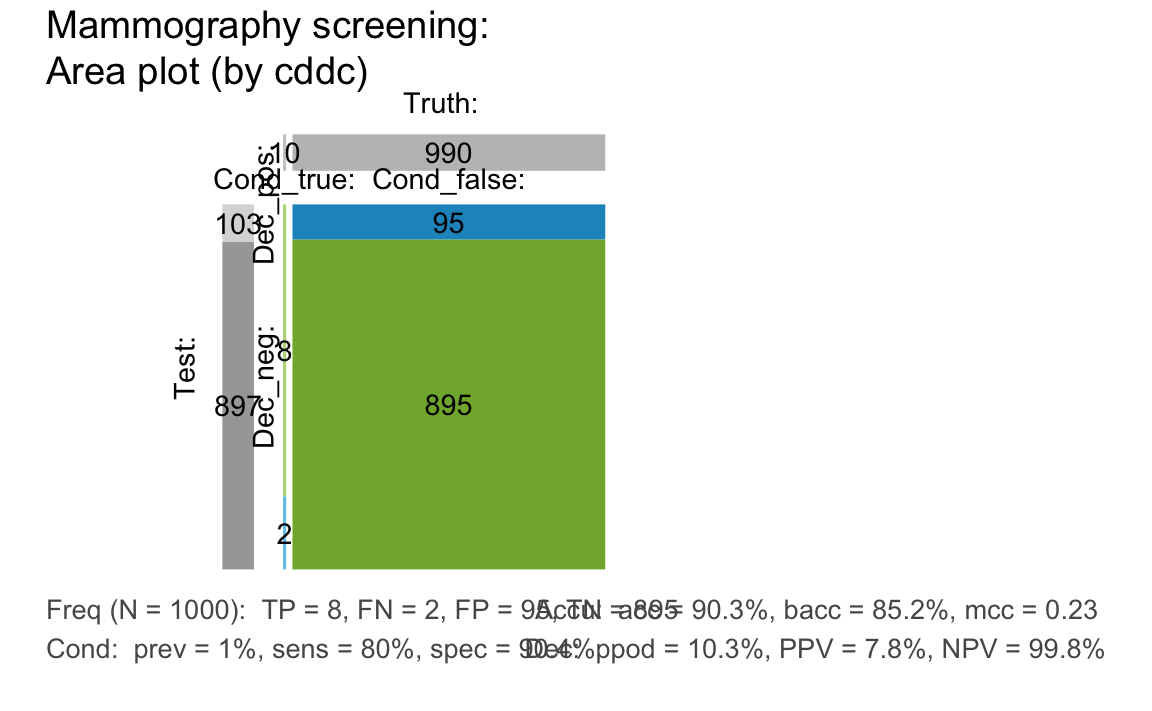
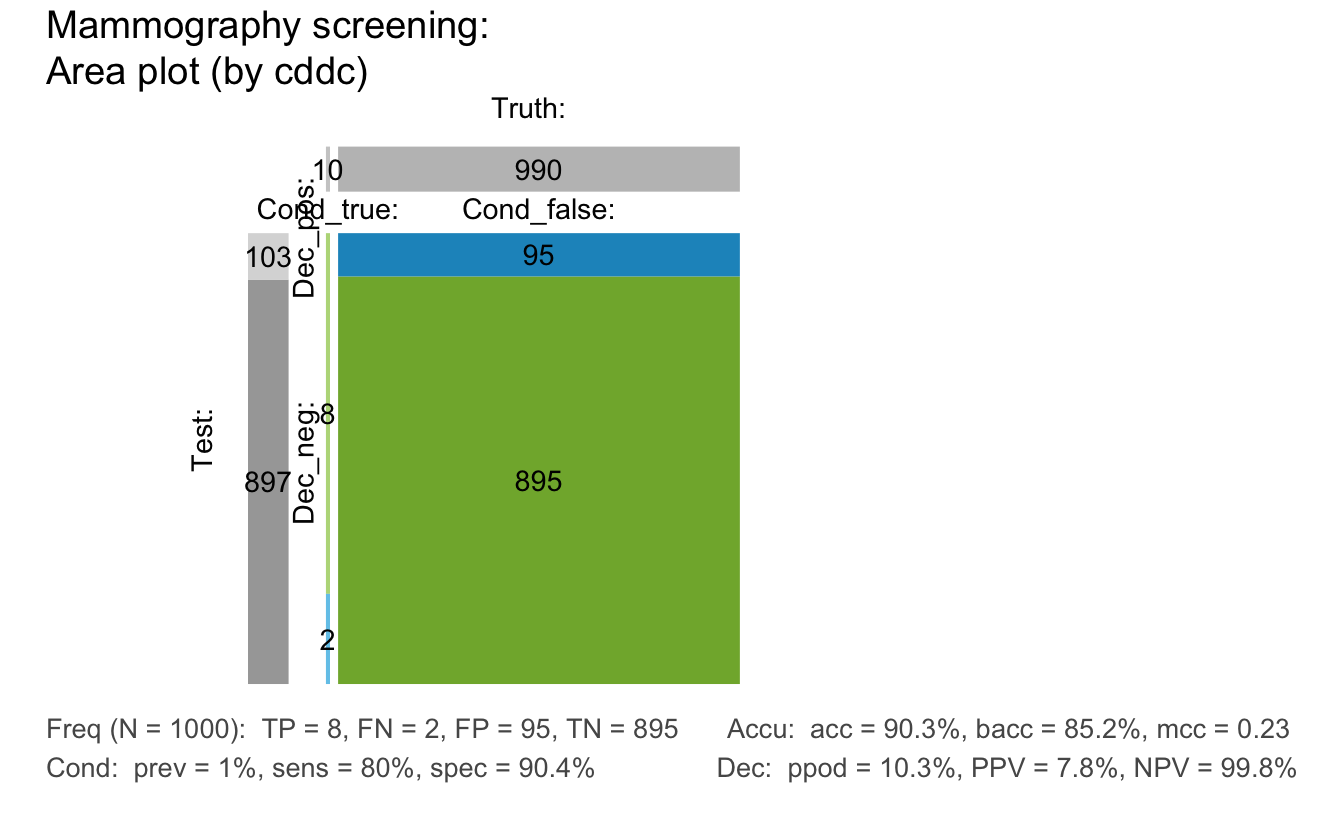
update online documentation

Changed region(s): [[0.0312, 0.1238, 0.9688, 0.9592], [0.0312, 0.0, 0.4375, 0.1238], [0.375, 0.557, 0.4375, 0.5879]]

diff --git a/docs/articles/A_user_guide.html b/docs/articles/A_user_guide.html
@@ -287,11 +287,7 @@ How many of these women do you expect to actually have breast cancer?</p>
 <div class="sourceCode"><pre class="sourceCode r"><code class="sourceCode r"><span class="kw"><a href="https://www.rdocumentation.org/packages/base/topics/library">library</a></span>(<span class="st">"riskyr"</span>)  <span class="co"># loads the package</span>
 <span class="co">#&gt; Welcome to riskyr!</span>
 <span class="co">#&gt; </span>
-<span class="co">#&gt;    _____</span>
-<span class="co">#&gt;   /\ r  \</span>
-<span class="co">#&gt;  /y \__i_\</span>
-<span class="co">#&gt;  \ r/s   /</span>
-<span class="co">#&gt;   \/___k/</span>
+<span class="co">#&gt; Ready to roll riskyr...</span>
 <span class="co">#&gt; </span>
 <span class="co">#&gt; riskyr.guide() opens user guides.</span>
 
@@ -381,7 +377,39 @@ f4 &lt;-<span class="st"> </span><span class="kw"><a href="../reference/comp_fre
 ## Check equality of outputs:
 <span class="kw"><a href="https://www.rdocumentation.org/packages/base/topics/all.equal">all.equal</a></span>(f3, f4)  <span class="co"># =&gt; shows slight differences in some frequencies:</span></code></pre></div>
 <p>As before, the function <code>comp_freq_prob</code> does not compute only one frequency, but a list of 11 frequencies. Their names and values can be inspected by printing <code>f1</code>:</p>
-<div class="sourceCode"><pre class="sourceCode r"><code class="sourceCode r">f1</code></pre></div>
+<div class="sourceCode"><pre class="sourceCode r"><code class="sourceCode r">f1
+<span class="co">#&gt; $N</span>
+<span class="co">#&gt; [1] 1000</span>
+<span class="co">#&gt; </span>
+<span class="co">#&gt; $cond_true</span>
+<span class="co">#&gt; [1] 10</span>
+<span class="co">#&gt; </span>
+<span class="co">#&gt; $cond_false</span>
+<span class="co">#&gt; [1] 990</span>
+<span class="co">#&gt; </span>
+<span class="co">#&gt; $dec_pos</span>
+<span class="co">#&gt; [1] 103</span>
+<span class="co">#&gt; </span>
+<span class="co">#&gt; $dec_neg</span>
+<span class="co">#&gt; [1] 897</span>
+<span class="co">#&gt; </span>
+<span class="co">#&gt; $dec_cor</span>
+<span class="co">#&gt; [1] 903</span>
+<span class="co">#&gt; </span>
+<span class="co">#&gt; $dec_err</span>
+<span class="co">#&gt; [1] 97</span>
+<span class="co">#&gt; </span>
+<span class="co">#&gt; $hi</span>
+<span class="co">#&gt; [1] 8</span>
+<span class="co">#&gt; </span>
+<span class="co">#&gt; $mi</span>
+<span class="co">#&gt; [1] 2</span>
+<span class="co">#&gt; </span>
+<span class="co">#&gt; $fa</span>
+<span class="co">#&gt; [1] 95</span>
+<span class="co">#&gt; </span>
+<span class="co">#&gt; $cr</span>
+<span class="co">#&gt; [1] 895</span></code></pre></div>
 <p>In this list, the sample of <code>N</code> = <span class="math inline">\(1000\)</span> women is split into 3 different subgroups. For instance, the <span class="math inline">\(10\)</span> women with cancer appear as <code>cond_true</code> cases, whereas the <code>990</code> without cancer are listed as <code>cond_false</code> cases. The <span class="math inline">\(8\)</span> women with cancer and a positive test result appear as <em>hits</em> <code>hi</code> and the 95 women who receive a positive test result without having cancer are listed as <em>false alarms</em> <code>fa</code>. (See the vignette on <a href="B_data_formats.html">data formats</a> for details on all frequencies.)</p>
 </div>
 <div id="computing-probabilities-from-frequencies" class="section level4">
@@ -533,7 +561,12 @@ A tree diagram that applies the provided probabilities and frequencies to a popu
 <p>An alternative way to split a group of individuals into subgroups depicts the population as a square and dissects it into various rectangles that represent parts of the population. In the following area plot (aka. mosaic plot), the relative proportions of rectangle sizes represent the relative frequencies of the corresponding subgroups:</p>
 <div class="sourceCode"><pre class="sourceCode r"><code class="sourceCode r"><span class="kw"><a href="../reference/plot_area.html">plot_area</a></span>(<span class="dt">prev =</span> .<span class="dv">01</span>, <span class="dt">sens =</span> .<span class="dv">80</span>, <span class="dt">spec =</span> <span class="ot">NA</span>, <span class="dt">fart =</span> .<span class="dv">096</span>, <span class="dt">N =</span> <span class="dv">1000</span>,
           <span class="dt">title_lbl =</span> <span class="st">"Mammography screening"</span>)</code></pre></div>
-<p>(Note that the plot is not shown here, but please go ahead and try creating it for yourself.)</p>
+<div class="figure" style="text-align: center">
+<img src="A_user_guide_files/figure-html/plot_mosaic_cd-1.png" alt="An area plot in which area sizes represent the probabilities/relative frequencies of subgroups." width="672"><p class="caption">
+An area plot in which area sizes represent the probabilities/relative frequencies of subgroups.
+</p>
+</div>
+<!-- (The plot is not shown here, but please go ahead and create it for yourself.) -->
 <p>The vertical split dissects the population into two subgroups that correspond to the frequency of <code>cond_true</code> and <code>cond_false</code> cases in the tree diagram above. The <code>prev</code> value of 1% yields a slim vertical rectangle on the left. (For details and additional options of the <code>plot_area</code> function, see the documentation of <code><a href="../reference/plot_area.html">?plot_area</a></code>.)</p>
 </div>
 <div id="bar-plot" class="section level4">
@@ -542,6 +575,7 @@ A tree diagram that applies the provided probabilities and frequencies to a popu
 <p>The tree diagrams from above can also be depicted as a vertical bar plot:</p>
 <div class="sourceCode"><pre class="sourceCode r"><code class="sourceCode r"><span class="kw"><a href="../reference/plot_bar.html">plot_bar</a></span>(<span class="dt">prev =</span> .<span class="dv">01</span>, <span class="dt">sens =</span> .<span class="dv">80</span>, <span class="dt">spec =</span> <span class="ot">NA</span>, <span class="dt">fart =</span> .<span class="dv">096</span>, <span class="dt">N =</span> <span class="dv">1000</span>, 
          <span class="dt">by =</span> <span class="st">"all"</span>, <span class="dt">dir =</span> <span class="dv">2</span>, <span class="dt">title_lbl =</span> <span class="st">"Mammography screening"</span>)</code></pre></div>
+<p>(The plot is not shown here, but please go ahead and create it for yourself.)</p>
 <p>However, due to a number of categories with a very low number of members, many bars are barely visible (which is why they are not shown here).</p>
 </div>
 <div id="prism-plot" class="section level4">
@@ -560,7 +594,7 @@ A prism plot that integrates 2 tree diagrams and represents relative frequency b
 <div id="alternative-perspectives" class="section level4">
 <h4 class="hasAnchor">
 <a href="#alternative-perspectives" class="anchor"></a>Alternative perspectives</h4>
-<p>The variety of different graphical options may be overwhelming at first. In the following, we illustrate some additional parameters and points, and trust that you can evaluate and explore the corresponding commands yourself.</p>
+<p>The variety of different graphical options provided by <code>riskyr</code> can be overwhelming at first – but fortunately the default options work reasonably well in most cases. In the following, we illustrate some additional parameters and points, and trust that you can evaluate and explore the corresponding commands yourself.</p>
 <p>Both the tree/prism diagrams and the mosaic plots shown above adopted a particular perspective by splitting the population into 2 subgroups by condition (via the default option <code>by = "cd"</code>). Rather than emphasizing the difference between <code>cond_true</code> and <code>cond_false</code> cases, an alternative perspective could ask: How many people are detected as positive vs. negative by the test? By using the option <code>by = "dc"</code>, the tree diagram splits the population by decisions into <code>dec_pos</code> and <code>dec_neg</code> cases:</p>
 <div class="sourceCode"><pre class="sourceCode r"><code class="sourceCode r"><span class="kw"><a href="../reference/plot_prism.html">plot_prism</a></span>(<span class="dt">prev =</span> .<span class="dv">01</span>, <span class="dt">sens =</span> .<span class="dv">80</span>, <span class="dt">spec =</span> <span class="ot">NA</span>, <span class="dt">fart =</span> .<span class="dv">096</span>, <span class="dt">N =</span> <span class="dv">1000</span>, 
            <span class="dt">by =</span> <span class="st">"dc"</span>, <span class="dt">title_lbl =</span> <span class="st">"Mammography screening"</span>, <span class="dt">col_pal =</span> pal_mod)</code></pre></div>

diff --git a/docs/reference/plot_prism.html b/docs/reference/plot_prism.html
@@ -397,9 +397,9 @@ and providing many additional options.</p>
 <span class='fu'>plot_prism</span>(<span class='kw'>by</span> <span class='kw'>=</span> <span class='st'>"cd"</span>, <span class='kw'>f_lbl</span> <span class='kw'>=</span> <span class='st'>"def"</span>, <span class='kw'>col_pal</span> <span class='kw'>=</span> <span class='no'>pal_mod</span>) <span class='co'># by condition (freq boxes: hi mi fa cr)</span></div><div class='img'><img src='plot_prism-10.png' alt='' width='691' height='538' /></div><div class='input'><span class='fu'>plot_prism</span>(<span class='kw'>by</span> <span class='kw'>=</span> <span class='st'>"dc"</span>, <span class='kw'>f_lbl</span> <span class='kw'>=</span> <span class='st'>"def"</span>, <span class='kw'>col_pal</span> <span class='kw'>=</span> <span class='no'>pal_mod</span>) <span class='co'># by decision  (freq boxes: hi fa mi cr)</span></div><div class='img'><img src='plot_prism-11.png' alt='' width='691' height='538' /></div><div class='input'><span class='fu'>plot_prism</span>(<span class='kw'>by</span> <span class='kw'>=</span> <span class='st'>"ac"</span>, <span class='kw'>f_lbl</span> <span class='kw'>=</span> <span class='st'>"def"</span>, <span class='kw'>col_pal</span> <span class='kw'>=</span> <span class='no'>pal_mod</span>) <span class='co'># by decision  (freq boxes: hi cr mi fa)</span></div><div class='img'><img src='plot_prism-12.png' alt='' width='691' height='538' /></div><div class='input'>
 <span class='co'># (B) prism/double tree (nchar(by) == 4):</span>
 <span class='co'>#     6 (3 x 2) versions (+ 3 redundant ones):</span>
-<span class='fu'>plot_prism</span>(<span class='kw'>by</span> <span class='kw'>=</span> <span class='st'>"cddc"</span>)  <span class='co'># v01 (default)</span></div><div class='img'><img src='plot_prism-13.png' alt='' width='691' height='538' /></div><div class='input'><span class='fu'>plot_prism</span>(<span class='kw'>by</span> <span class='kw'>=</span> <span class='st'>"cdac"</span>)  <span class='co'># v02</span></div><div class='img'><img src='plot_prism-14.png' alt='' width='691' height='538' /></div><div class='input'><span class='fu'>plot_prism</span>(<span class='kw'>by</span> <span class='kw'>=</span> <span class='st'>"cdcd"</span>)  <span class='co'># (+) Warning</span></div><div class='output co'>#&gt; <span class='warning'>Warning: Specified 2 identical perspectives.</span></div><div class='img'><img src='plot_prism-15.png' alt='' width='691' height='538' /></div><div class='input'>
-<span class='fu'>plot_prism</span>(<span class='kw'>by</span> <span class='kw'>=</span> <span class='st'>"dccd"</span>)  <span class='co'># v03</span></div><div class='img'><img src='plot_prism-16.png' alt='' width='691' height='538' /></div><div class='input'><span class='fu'>plot_prism</span>(<span class='kw'>by</span> <span class='kw'>=</span> <span class='st'>"dcac"</span>)  <span class='co'># v04</span></div><div class='img'><img src='plot_prism-17.png' alt='' width='691' height='538' /></div><div class='input'><span class='fu'>plot_prism</span>(<span class='kw'>by</span> <span class='kw'>=</span> <span class='st'>"dcdc"</span>)  <span class='co'># (+) Warning</span></div><div class='output co'>#&gt; <span class='warning'>Warning: Specified 2 identical perspectives.</span></div><div class='img'><img src='plot_prism-18.png' alt='' width='691' height='538' /></div><div class='input'>
-<span class='fu'>plot_prism</span>(<span class='kw'>by</span> <span class='kw'>=</span> <span class='st'>"accd"</span>)  <span class='co'># v05</span></div><div class='img'><img src='plot_prism-19.png' alt='' width='691' height='538' /></div><div class='input'><span class='fu'>plot_prism</span>(<span class='kw'>by</span> <span class='kw'>=</span> <span class='st'>"acdc"</span>)  <span class='co'># v06</span></div><div class='img'><img src='plot_prism-20.png' alt='' width='691' height='538' /></div><div class='input'><span class='fu'>plot_prism</span>(<span class='kw'>by</span> <span class='kw'>=</span> <span class='st'>"acac"</span>)  <span class='co'># (+) Warning</span></div><div class='output co'>#&gt; <span class='warning'>Warning: Specified 2 identical perspectives.</span></div><div class='img'><img src='plot_prism-21.png' alt='' width='691' height='538' /></div><div class='input'>
+<span class='fu'>plot_prism</span>(<span class='kw'>by</span> <span class='kw'>=</span> <span class='st'>"cddc"</span>)  <span class='co'># v01 (default)</span></div><div class='img'><img src='plot_prism-13.png' alt='' width='691' height='538' /></div><div class='input'><span class='fu'>plot_prism</span>(<span class='kw'>by</span> <span class='kw'>=</span> <span class='st'>"cdac"</span>)  <span class='co'># v02</span></div><div class='img'><img src='plot_prism-14.png' alt='' width='691' height='538' /></div><div class='input'><span class='fu'>plot_prism</span>(<span class='kw'>by</span> <span class='kw'>=</span> <span class='st'>"cdcd"</span>)  <span class='co'># (+) Message</span></div><div class='output co'>#&gt; <span class='message'>Specified 2 identical perspectives.</span></div><div class='img'><img src='plot_prism-15.png' alt='' width='691' height='538' /></div><div class='input'>
+<span class='fu'>plot_prism</span>(<span class='kw'>by</span> <span class='kw'>=</span> <span class='st'>"dccd"</span>)  <span class='co'># v03</span></div><div class='img'><img src='plot_prism-16.png' alt='' width='691' height='538' /></div><div class='input'><span class='fu'>plot_prism</span>(<span class='kw'>by</span> <span class='kw'>=</span> <span class='st'>"dcac"</span>)  <span class='co'># v04</span></div><div class='img'><img src='plot_prism-17.png' alt='' width='691' height='538' /></div><div class='input'><span class='fu'>plot_prism</span>(<span class='kw'>by</span> <span class='kw'>=</span> <span class='st'>"dcdc"</span>)  <span class='co'># (+) Message</span></div><div class='output co'>#&gt; <span class='message'>Specified 2 identical perspectives.</span></div><div class='img'><img src='plot_prism-18.png' alt='' width='691' height='538' /></div><div class='input'>
+<span class='fu'>plot_prism</span>(<span class='kw'>by</span> <span class='kw'>=</span> <span class='st'>"accd"</span>)  <span class='co'># v05</span></div><div class='img'><img src='plot_prism-19.png' alt='' width='691' height='538' /></div><div class='input'><span class='fu'>plot_prism</span>(<span class='kw'>by</span> <span class='kw'>=</span> <span class='st'>"acdc"</span>)  <span class='co'># v06</span></div><div class='img'><img src='plot_prism-20.png' alt='' width='691' height='538' /></div><div class='input'><span class='fu'>plot_prism</span>(<span class='kw'>by</span> <span class='kw'>=</span> <span class='st'>"acac"</span>)  <span class='co'># (+) Message</span></div><div class='output co'>#&gt; <span class='message'>Specified 2 identical perspectives.</span></div><div class='img'><img src='plot_prism-21.png' alt='' width='691' height='538' /></div><div class='input'>
 <span class='co'>## Other options:</span>
 
 <span class='co'># area:</span>

diff --git a/docs/articles/C_confusion_matrix.html b/docs/articles/C_confusion_matrix.html
@@ -306,7 +306,7 @@
 <h4 class="hasAnchor">
 <a href="#example" class="anchor"></a>Example</h4>
 <p>To view a 2x2 confusion table in <code>riskyr</code>, use the <code>plot_tab</code> function or plot an existing scenario as <code>type = "tab"</code>:</p>
-<div class="sourceCode"><pre class="sourceCode r"><code class="sourceCode r">## Plot table from basic input parameters: ----- 
+<div class="sourceCode"><pre class="sourceCode r"><code class="sourceCode r"><span class="co"># Plot table from basic input parameters: ----- </span>
 <span class="kw"><a href="../reference/plot_tab.html">plot_tab</a></span>(<span class="dt">prev =</span> .<span class="dv">05</span>, <span class="dt">sens =</span> .<span class="dv">75</span>, <span class="dt">spec =</span> .<span class="dv">66</span>, <span class="dt">N =</span> <span class="dv">1000</span>,
          <span class="dt">p_lbl =</span> <span class="st">"def"</span>, <span class="dt">title_lbl =</span> <span class="st">"Scenario 1"</span>)
 
@@ -318,6 +318,7 @@
 Example of a 2x2 confusion table in <code>riskyr</code>.
 </p>
 </div>
+<!-- (The plots are not shown here, but please go ahead and generate them for yourself.) -->
 <!-- 
 
 #### ToDo
@@ -380,6 +381,7 @@ Example of a 2x2 confusion table in <code>riskyr</code>.
 Arranging a 2x2 confusion table by condition and by accuracy.
 </p>
 </div>
+<!-- (Note that the plot is not shown here, but please go ahead and generate it for yourself.) -->
 </div>
 <div id="avoiding-common-sources-of-confusion" class="section level4">
 <h4 class="hasAnchor">
@@ -394,10 +396,10 @@ Arranging a 2x2 confusion table by condition and by accuracy.
 </ul>
 </li>
 </ol>
-<p>Thus, the terms “true” and “false” are sometimes ambiguous by switching their referents. When used to denote the four essential frequencies (e.g., describing <code>mi</code> as “false negatives” and <code>cr</code> as “true negatives”) the terms refer to the correspondence of a decision to the condition, rather than to their condition. To avoid this source of confusion, we prefer the terms <code>mi</code> and <code>cr</code>, rather than “false negatives” and “true negatives”.</p>
+<p>Thus, the terms “true” and “false” are sometimes ambiguous by switching their referents. When used to denote the four essential frequencies (e.g., describing <code>mi</code> as “false negatives” and <code>cr</code> as “true negatives”) the terms refer to the correspondence of a decision to the condition, rather than to their condition. To avoid this source of confusion, we prefer the terms <code>mi</code> and <code>cr</code> over “false negatives” (FN) and “true negatives” (TN), respectively, but offer both options as pre-defined lists of text labels (see <code>txt_org</code> and <code>txt_TF</code>).</p>
 <ol start="2" style="list-style-type: decimal">
 <li>Beware of alternative terms for <code>dec_cor</code> and <code>dec_err</code>:<br>
-Similarly, it may be tempting to refer to instances of <code>dec_cor</code> and <code>dec_err</code> as “true decisions” and “false decisions”. However, this would also invite conceptual confusion, as “true decisions” would include <code>cond_false</code> cases (<code>cr</code>) and “false decisions” would include <code>cond_true</code> cases (<code>mi</code>). Again, we prefer the less ambiguous terms “correct decisions” vs. “erroneous decisions”.</li>
+Similarly, it may be tempting to refer to instances of <code>dec_cor</code> and <code>dec_err</code> as “true decisions” and “false decisions”. However, this would also invite conceptual confusion, as “true decisions” would include <code>cond_false</code> cases (<code>cr</code> or TN cases) and “false decisions” would include <code>cond_true</code> cases (<code>mi</code> or FN cases). Again, we prefer the less ambiguous terms “correct decisions” vs. “erroneous decisions”.</li>
 </ol>
 </div>
 </div>
@@ -405,8 +407,8 @@ Similarly, it may be tempting to refer to instances of <code>dec_cor</code> and 
 <div id="accuracy-metrics" class="section level2">
 <h2 class="hasAnchor">
 <a href="#accuracy-metrics" class="anchor"></a>Accuracy metrics</h2>
-<p>The perspective of accuracy raises an important question: How good is a given decision (e.g., a clinical judgment or some diagnostic test) in capturing the true state of the condition? Different accuracy metrics provide different answers to this question, but share a common goal — measuring decision performance by capturing the correspondence of decisions to conditions in some quantitative fashion.<a href="#fn2" class="footnoteRef" id="fnref2"><sup>2</sup></a></p>
-<p>While all accuracy metrics quantify the relationship between correct and erroneous decisions, different metrics emphasize different aspects or have different purposes. We distinguish between specific and general metrics.</p>
+<p>The perspective of accuracy raises an important question: How good is some decision process (e.g., a clinical judgment or some diagnostic test) in capturing the true state of the condition? Different accuracy metrics provide different answers to this question, but share a common goal — measuring decision performance by capturing the correspondence of decisions to conditions in some quantitative fashion.<a href="#fn2" class="footnoteRef" id="fnref2"><sup>2</sup></a></p>
+<p>While all accuracy metrics quantify the relationship between correct and erroneous decisions, different metrics emphasize different aspects or serve different purposes. We distinguish between specific and general metrics.</p>
 <div id="a--specific-metrics-conditional-probabilities" class="section level3">
 <h3 class="hasAnchor">
 <a href="#a--specific-metrics-conditional-probabilities" class="anchor"></a>A. Specific metrics: Conditional probabilities</h3>
@@ -503,7 +505,7 @@ Similarly, it may be tempting to refer to instances of <code>dec_cor</code> and 
 <h2 class="hasAnchor">
 <a href="#references" class="anchor"></a>References</h2>
 <ul>
-<li>Phillips, N. D., Neth, H., Woike, J. K., &amp; Gaissmaier, W. (2017). FFTrees: A toolbox to create, visualize, and evaluate fast-and-frugal decision trees. <em>Judgment and Decision Making</em>, <em>12</em>, 344–368. [ <a href="http://journal.sjdm.org/17/17217/jdm17217.pdf">pdf</a> | <a href="http://journal.sjdm.org/17/17217/jdm17217.html">html</a> | <a href="https://CRAN.R-project.org/package=FFTrees">R package</a> ]</li>
+<li>Phillips, N. D., Neth, H., Woike, J. K., &amp; Gaissmaier, W. (2017). FFTrees: A toolbox to create, visualize, and evaluate fast-and-frugal decision trees. <em>Judgment and Decision Making</em>, <em>12</em>, 344–368. [Available online: <a href="http://journal.sjdm.org/17/17217/jdm17217.pdf">pdf</a> | <a href="http://journal.sjdm.org/17/17217/jdm17217.html">html</a> | <a href="https://CRAN.R-project.org/package=FFTrees">R package</a> ]</li>
 </ul>
 <p>Links to related Wikipedia articles:</p>
 <ul>

diff --git a/docs/reference/is_prob.html b/docs/reference/is_prob.html
@@ -194,10 +194,16 @@ otherwise <code>FALSE</code>.</p>
     <pre class="examples"><div class='input'><span class='co'># ways to succeed:</span>
 <span class='fu'>is_prob</span>(<span class='fl'>1</span>/<span class='fl'>2</span>)                  <span class='co'># =&gt; TRUE</span></div><div class='output co'>#&gt; [1] TRUE</div><div class='input'><span class='no'>p.seq</span> <span class='kw'>&lt;-</span> <span class='fu'><a href='https://www.rdocumentation.org/packages/base/topics/seq'>seq</a></span>(<span class='fl'>0</span>, <span class='fl'>1</span>, <span class='kw'>by</span> <span class='kw'>=</span> <span class='fl'>.1</span>)   <span class='co'># Vector of probabilities</span>
 <span class='fu'>is_prob</span>(<span class='no'>p.seq</span>)                <span class='co'># =&gt; TRUE (for vector)</span></div><div class='output co'>#&gt; [1] TRUE</div><div class='input'>
-<span class='co'># watch out for:</span>
-<span class='fu'>is_prob</span>(<span class='fl'>NA</span>)                   <span class='co'># =&gt; FALSE + NO warning!</span></div><div class='output co'>#&gt; [1] FALSE</div><div class='input'><span class='fu'>is_prob</span>(<span class='fl'>0</span>/<span class='fl'>0</span>)                  <span class='co'># =&gt; FALSE + NO warning (NA + NaN values)</span></div><div class='output co'>#&gt; [1] FALSE</div><div class='input'><span class='fu'>is_prob</span>(<span class='fl'>0</span>/<span class='fl'>0</span>, <span class='kw'>NA_warn</span> <span class='kw'>=</span> <span class='fl'>TRUE</span>)  <span class='co'># =&gt; FALSE + warning (NA values)</span></div><div class='output co'>#&gt; <span class='warning'>Warning: NaN contains NA values. </span></div><div class='output co'>#&gt; [1] FALSE</div><div class='input'>
-<span class='co'># ways to fail:</span>
-<span class='fu'>is_prob</span>(<span class='fl'>8</span>, <span class='kw'>NA_warn</span> <span class='kw'>=</span> <span class='fl'>TRUE</span>)         <span class='co'># =&gt; FALSE + warning (outside range element)</span></div><div class='output co'>#&gt; <span class='warning'>Warning: 8 contains values beyond the range from 0 to 1. </span></div><div class='output co'>#&gt; [1] FALSE</div><div class='input'><span class='fu'>is_prob</span>(<span class='fu'><a href='https://www.rdocumentation.org/packages/base/topics/c'>c</a></span>(<span class='fl'>.5</span>, <span class='fl'>8</span>), <span class='kw'>NA_warn</span> <span class='kw'>=</span> <span class='fl'>TRUE</span>)  <span class='co'># =&gt; FALSE + warning (outside range vector element)</span></div><div class='output co'>#&gt; <span class='warning'>Warning: 0.5 contains values beyond the range from 0 to 1. 8 contains values beyond the range from 0 to 1. </span></div><div class='output co'>#&gt; [1] FALSE</div><div class='input'><span class='fu'>is_prob</span>(<span class='st'>"Laplace"</span>, <span class='kw'>NA_warn</span> <span class='kw'>=</span> <span class='fl'>TRUE</span>) <span class='co'># =&gt; FALSE + warning (non-numeric values)</span></div><div class='output co'>#&gt; <span class='warning'>Warning: Laplace contains non-numeric values. </span></div><div class='output co'>#&gt; [1] FALSE</div><div class='input'>
+## watch out for:
+# is_prob(NA)                   # => FALSE + NO warning!
+# is_prob(0/0)                  # => FALSE + NO warning (NA + NaN values)
+# is_prob(0/0, NA_warn = TRUE)  # => FALSE + warning (NA values)
+
+## ways to fail:
+# is_prob(8, NA_warn = TRUE)         # => FALSE + warning (outside range element)
+# is_prob(c(.5, 8), NA_warn = TRUE)  # => FALSE + warning (outside range vector element)
+# is_prob("Laplace", NA_warn = TRUE) # => FALSE + warning (non-numeric values)
+
 </div></pre>
   </div>
   <div class="col-md-3 hidden-xs hidden-sm" id="sidebar">

diff --git a/docs/reference/is_perc.html b/docs/reference/is_perc.html
@@ -186,10 +186,17 @@ otherwise <code>FALSE</code>.</p>
 
     <h2 class="hasAnchor" id="examples"><a class="anchor" href="#examples"></a>Examples</h2>
     <pre class="examples"><div class='input'><span class='co'># ways to succeed:</span>
-<span class='fu'>is_perc</span>(<span class='fl'>2</span>)           <span class='co'># =&gt; TRUE, but does NOT return the percentage 2.</span></div><div class='output co'>#&gt; [1] TRUE</div><div class='input'><span class='fu'>is_perc</span>(<span class='fl'>1</span>/<span class='fl'>2</span>)         <span class='co'># =&gt; TRUE, but does NOT return the percentage 0.5.</span></div><div class='output co'>#&gt; [1] TRUE</div><div class='input'><span class='no'>pc.sq</span> <span class='kw'>&lt;-</span> <span class='fu'><a href='https://www.rdocumentation.org/packages/base/topics/seq'>seq</a></span>(<span class='fl'>0</span>, <span class='fl'>100</span>, <span class='kw'>by</span> <span class='kw'>=</span> <span class='fl'>10</span>)
-<span class='fu'>is_perc</span>(<span class='no'>pc.sq</span>)       <span class='co'># =&gt; TRUE (for vector)</span></div><div class='output co'>#&gt; [1] TRUE</div><div class='input'>
-<span class='co'># ways to fail:</span>
-<span class='fu'>is_perc</span>(<span class='fl'>NA</span>)          <span class='co'># =&gt; FALSE + warning (NA values)</span></div><div class='output co'>#&gt; <span class='warning'>Warning: NA contains NA values. </span></div><div class='output co'>#&gt; [1] FALSE</div><div class='input'><span class='fu'>is_perc</span>(<span class='fl'>NaN</span>)         <span class='co'># =&gt; FALSE + warning (NaN values)</span></div><div class='output co'>#&gt; <span class='warning'>Warning: NaN contains NA values. </span></div><div class='output co'>#&gt; [1] FALSE</div><div class='input'><span class='fu'>is_perc</span>(<span class='st'>"Bernoulli"</span>) <span class='co'># =&gt; FALSE + warning (non-numeric values)</span></div><div class='output co'>#&gt; <span class='warning'>Warning: Bernoulli contains non-numeric values. </span></div><div class='output co'>#&gt; [1] FALSE</div><div class='input'><span class='fu'>is_perc</span>(<span class='fl'>101</span>)         <span class='co'># =&gt; FALSE + warning (beyond range)</span></div><div class='output co'>#&gt; <span class='warning'>Warning: 101 contains values beyond the range from 0 to 100. </span></div><div class='output co'>#&gt; [1] FALSE</div><div class='input'>
+<span class='fu'>is_perc</span>(<span class='fl'>2</span>)    <span class='co'># =&gt; TRUE, but does NOT return the percentage 2.</span></div><div class='output co'>#&gt; [1] TRUE</div><div class='input'><span class='fu'>is_perc</span>(<span class='fl'>1</span>/<span class='fl'>2</span>)  <span class='co'># =&gt; TRUE, but does NOT return the percentage 0.5.</span></div><div class='output co'>#&gt; [1] TRUE</div><div class='input'>
+## note:
+# pc_sq <- seq(0, 100, by = 10)
+# is_perc(pc_sq)       # => TRUE (for vector)
+
+## ways to fail:
+# is_perc(NA)          # => FALSE + warning (NA values)
+# is_perc(NaN)         # => FALSE + warning (NaN values)
+# is_perc("Bernoulli") # => FALSE + warning (non-numeric values)
+# is_perc(101)         # => FALSE + warning (beyond range)
+
 </div></pre>
   </div>
   <div class="col-md-3 hidden-xs hidden-sm" id="sidebar">

diff --git a/docs/reference/is_freq.html b/docs/reference/is_freq.html
@@ -185,11 +185,15 @@ otherwise <code>FALSE</code>.</p>
 
     <h2 class="hasAnchor" id="examples"><a class="anchor" href="#examples"></a>Examples</h2>
     <pre class="examples"><div class='input'><span class='co'># ways to succeed:</span>
-<span class='fu'>is_freq</span>(<span class='fl'>2</span>)             <span class='co'># =&gt; TRUE, but does NOT return the frequency 2.</span></div><div class='output co'>#&gt; [1] TRUE</div><div class='input'><span class='fu'>is_freq</span>(<span class='fl'>1</span>:<span class='fl'>3</span>)           <span class='co'># =&gt; TRUE (for vector)</span></div><div class='output co'>#&gt; [1] TRUE</div><div class='input'>
-<span class='co'># ways to fail:</span>
-<span class='fu'>is_freq</span>(-<span class='fl'>1</span>)            <span class='co'># =&gt; FALSE + warning (negative values)</span></div><div class='output co'>#&gt; <span class='warning'>Warning: -1 contains negative values (&lt; 0). </span></div><div class='output co'>#&gt; [1] FALSE</div><div class='input'><span class='fu'>is_freq</span>(<span class='fl'>1</span>:-<span class='fl'>1</span>)          <span class='co'># =&gt; FALSE (for vector) + warning (negative values)</span></div><div class='output co'>#&gt; <span class='warning'>Warning: 1 contains negative values (&lt; 0). 0 contains negative values (&lt; 0). -1 contains negative values (&lt; 0). </span></div><div class='output co'>#&gt; [1] FALSE</div><div class='input'><span class='fu'>is_freq</span>(<span class='fu'><a href='https://www.rdocumentation.org/packages/base/topics/c'>c</a></span>(<span class='fl'>1</span>, <span class='fl'>1.5</span>, <span class='fl'>2</span>))  <span class='co'># =&gt; FALSE (for vector) + warning (non-integer values)</span></div><div class='output co'>#&gt; <span class='warning'>Warning: 1 contains non-integer values. 1.5 contains non-integer values. 2 contains non-integer values. </span></div><div class='output co'>#&gt; [1] FALSE</div><div class='input'>
-<span class='co'>## Note that:</span>
-<span class='fu'><a href='https://www.rdocumentation.org/packages/base/topics/integer'>is.integer</a></span>(<span class='fl'>2</span>)          <span class='co'># =&gt; FALSE!</span></div><div class='output co'>#&gt; [1] FALSE</div><div class='input'>
+<span class='fu'>is_freq</span>(<span class='fl'>2</span>)    <span class='co'># =&gt; TRUE, but does NOT return the frequency 2.</span></div><div class='output co'>#&gt; [1] TRUE</div><div class='input'><span class='fu'>is_freq</span>(<span class='fl'>0</span>:<span class='fl'>3</span>)  <span class='co'># =&gt; TRUE (for vector)</span></div><div class='output co'>#&gt; [1] TRUE</div><div class='input'>
+## ways to fail:
+# is_freq(-1)            # => FALSE + warning (negative values)
+# is_freq(1:-1)          # => FALSE (for vector) + warning (negative values)
+# is_freq(c(1, 1.5, 2))  # => FALSE (for vector) + warning (non-integer values)
+
+## note:
+# is.integer(2)          # => FALSE!
+
 </div></pre>
   </div>
   <div class="col-md-3 hidden-xs hidden-sm" id="sidebar">

diff --git a/docs/reference/as_pc.html b/docs/reference/as_pc.html
@@ -192,21 +192,7 @@ toggling the display of numeric values between percentages and probabilities.</p
     
 
     <h2 class="hasAnchor" id="examples"><a class="anchor" href="#examples"></a>Examples</h2>
-    <pre class="examples"><div class='input'><span class='fu'>as_pc</span>(<span class='fl'>.50</span>)                <span class='co'># =&gt;  50</span></div><div class='output co'>#&gt; [1] 50</div><div class='input'><span class='fu'>as_pc</span>(<span class='fl'>1</span>/<span class='fl'>3</span>)                <span class='co'># =&gt;  33.33</span></div><div class='output co'>#&gt; [1] 33.33</div><div class='input'><span class='fu'>as_pc</span>(<span class='fl'>1</span>/<span class='fl'>3</span>, <span class='kw'>n_digits</span> <span class='kw'>=</span> <span class='fl'>0</span>)  <span class='co'># =&gt;  33</span></div><div class='output co'>#&gt; [1] 33</div><div class='input'><span class='fu'>as_pc</span>(<span class='fu'><a href='as_pb.html'>as_pb</a></span>(<span class='fl'>12.3</span>))        <span class='co'># =&gt;  12.3</span></div><div class='output co'>#&gt; [1] 12.3</div><div class='input'>
-## ways to fail:
-# as_pc(pi)               # => 314.16 + WARNING that prob is no probability
-
-## Check (not run):
-# prob_seq <- seq(0, 1, by = 1/10)
-# perc_seq <- seq(0, 100, by = 10)
-
-# as_pc(prob_seq)  # =>   0  10  20  30  40  50  60  70  80  90 100
-# as_pb(perc_seq)  # => 0.0 0.1 0.2 0.3 0.4 0.5 0.6 0.7 0.8 0.9 1.0
-
-# perc_seq == as_pc(as_pb(perc_seq))            # => all TRUE
-# prob_seq == as_pb(as_pc(prob_seq))            # => some FALSE due to rounding errors!
-# round(prob_seq, 4) == as_pb(as_pc(prob_seq))  # => all TRUE (both rounded to 4 decimals)
-
+    <pre class="examples"><div class='input'><span class='fu'>as_pc</span>(<span class='fl'>.50</span>)                <span class='co'># 50</span></div><div class='output co'>#&gt; [1] 50</div><div class='input'><span class='fu'>as_pc</span>(<span class='fl'>1</span>/<span class='fl'>3</span>)                <span class='co'># 33.33</span></div><div class='output co'>#&gt; [1] 33.33</div><div class='input'><span class='fu'>as_pc</span>(<span class='fl'>1</span>/<span class='fl'>3</span>, <span class='kw'>n_digits</span> <span class='kw'>=</span> <span class='fl'>0</span>)  <span class='co'># 33</span></div><div class='output co'>#&gt; [1] 33</div><div class='input'><span class='fu'>as_pc</span>(<span class='fu'><a href='as_pb.html'>as_pb</a></span>(<span class='fl'>12.3</span>))        <span class='co'># 12.3</span></div><div class='output co'>#&gt; [1] 12.3</div><div class='input'>
 </div></pre>
   </div>
   <div class="col-md-3 hidden-xs hidden-sm" id="sidebar">

diff --git a/docs/reference/as_pb.html b/docs/reference/as_pb.html
@@ -193,17 +193,6 @@ toggling the display of numeric values between percentages and probabilities.</p
 
     <h2 class="hasAnchor" id="examples"><a class="anchor" href="#examples"></a>Examples</h2>
     <pre class="examples"><div class='input'><span class='fu'>as_pb</span>(<span class='fl'>1</span>/<span class='fl'>3</span>)          <span class='co'># =&gt; 0.0033</span></div><div class='output co'>#&gt; [1] 0.0033</div><div class='input'><span class='fu'>as_pb</span>(<span class='fu'><a href='as_pc.html'>as_pc</a></span>(<span class='fl'>2</span>/<span class='fl'>3</span>))   <span class='co'># =&gt; 0.6667 (rounded to 4 decimals)</span></div><div class='output co'>#&gt; [1] 0.6667</div><div class='input'>
-## Check (not run):
-# prob_seq <- seq(0, 1, by = 1/10)
-# perc_seq <- seq(0, 100, by = 10)
-
-# as_pc(prob_seq)  # =>   0  10  20  30  40  50  60  70  80  90 100
-# as_pb(perc_seq)  # => 0.0 0.1 0.2 0.3 0.4 0.5 0.6 0.7 0.8 0.9 1.0
-
-# perc_seq == as_pc(as_pb(perc_seq))            # => all TRUE
-# prob_seq == as_pb(as_pc(prob_seq))            # => some FALSE due to rounding errors!
-# round(prob_seq, 4) == as_pb(as_pc(prob_seq))  # => all TRUE (both rounded to 4 decimals)
-
 </div></pre>
   </div>
   <div class="col-md-3 hidden-xs hidden-sm" id="sidebar">
